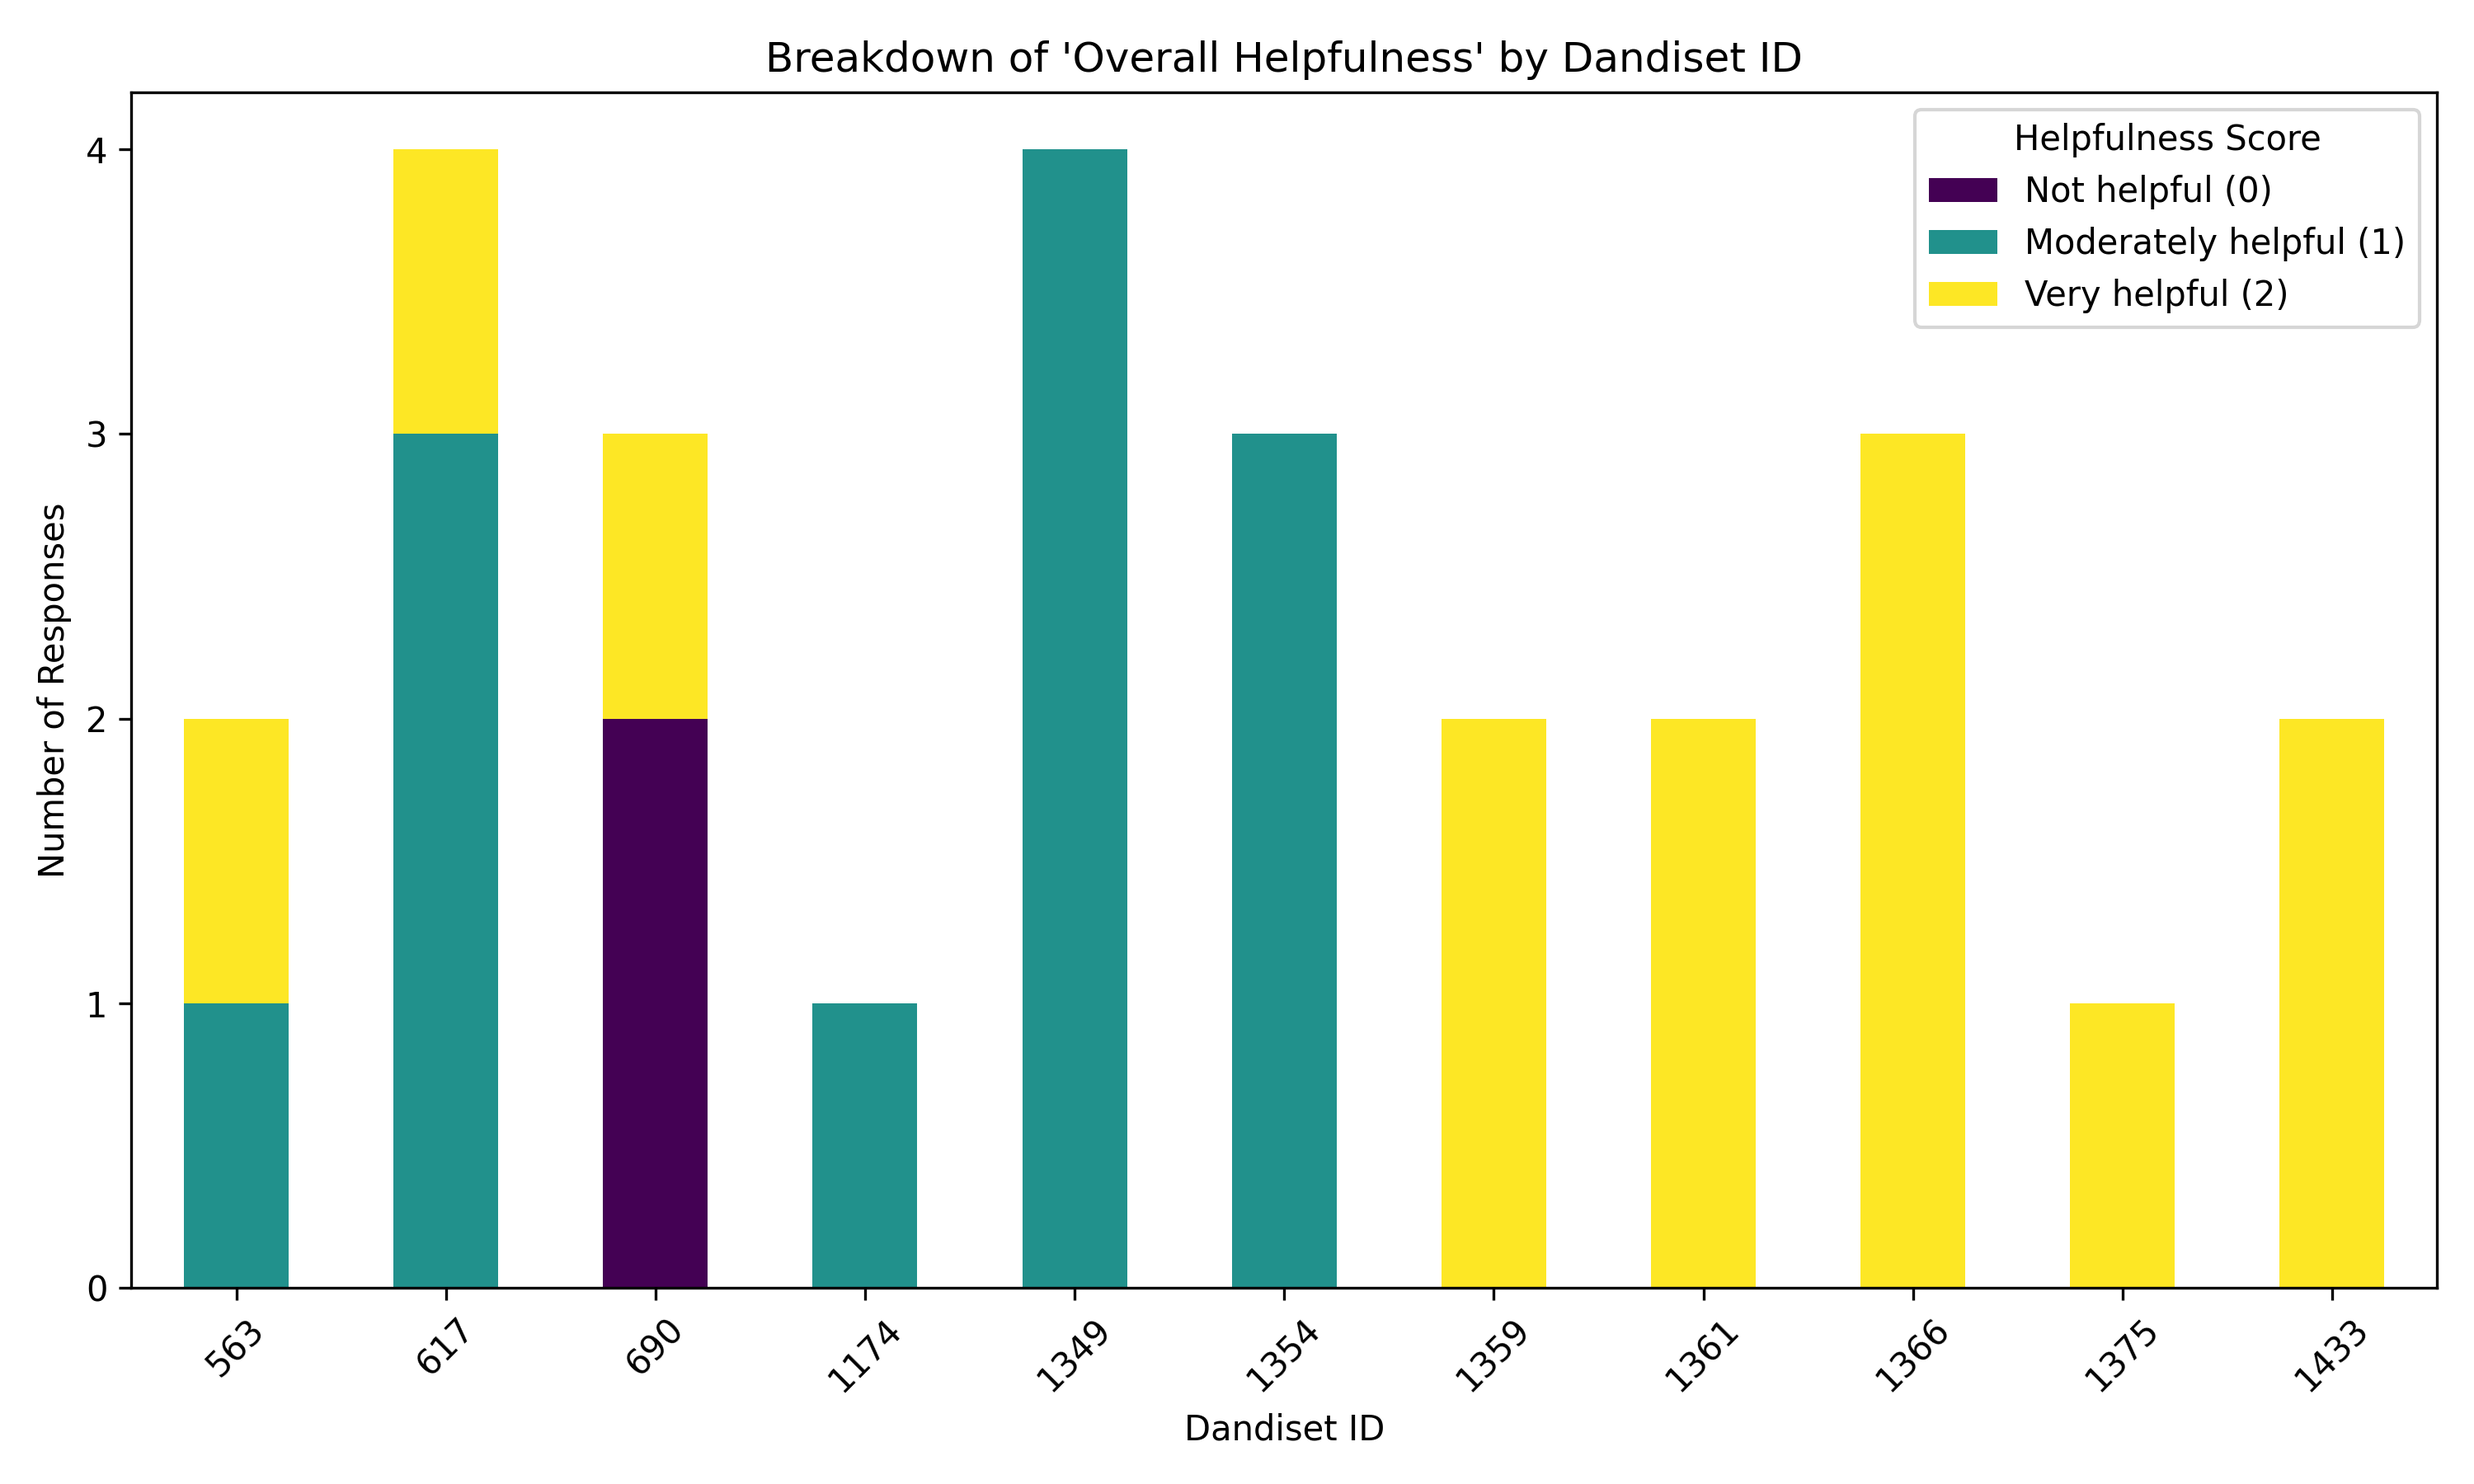
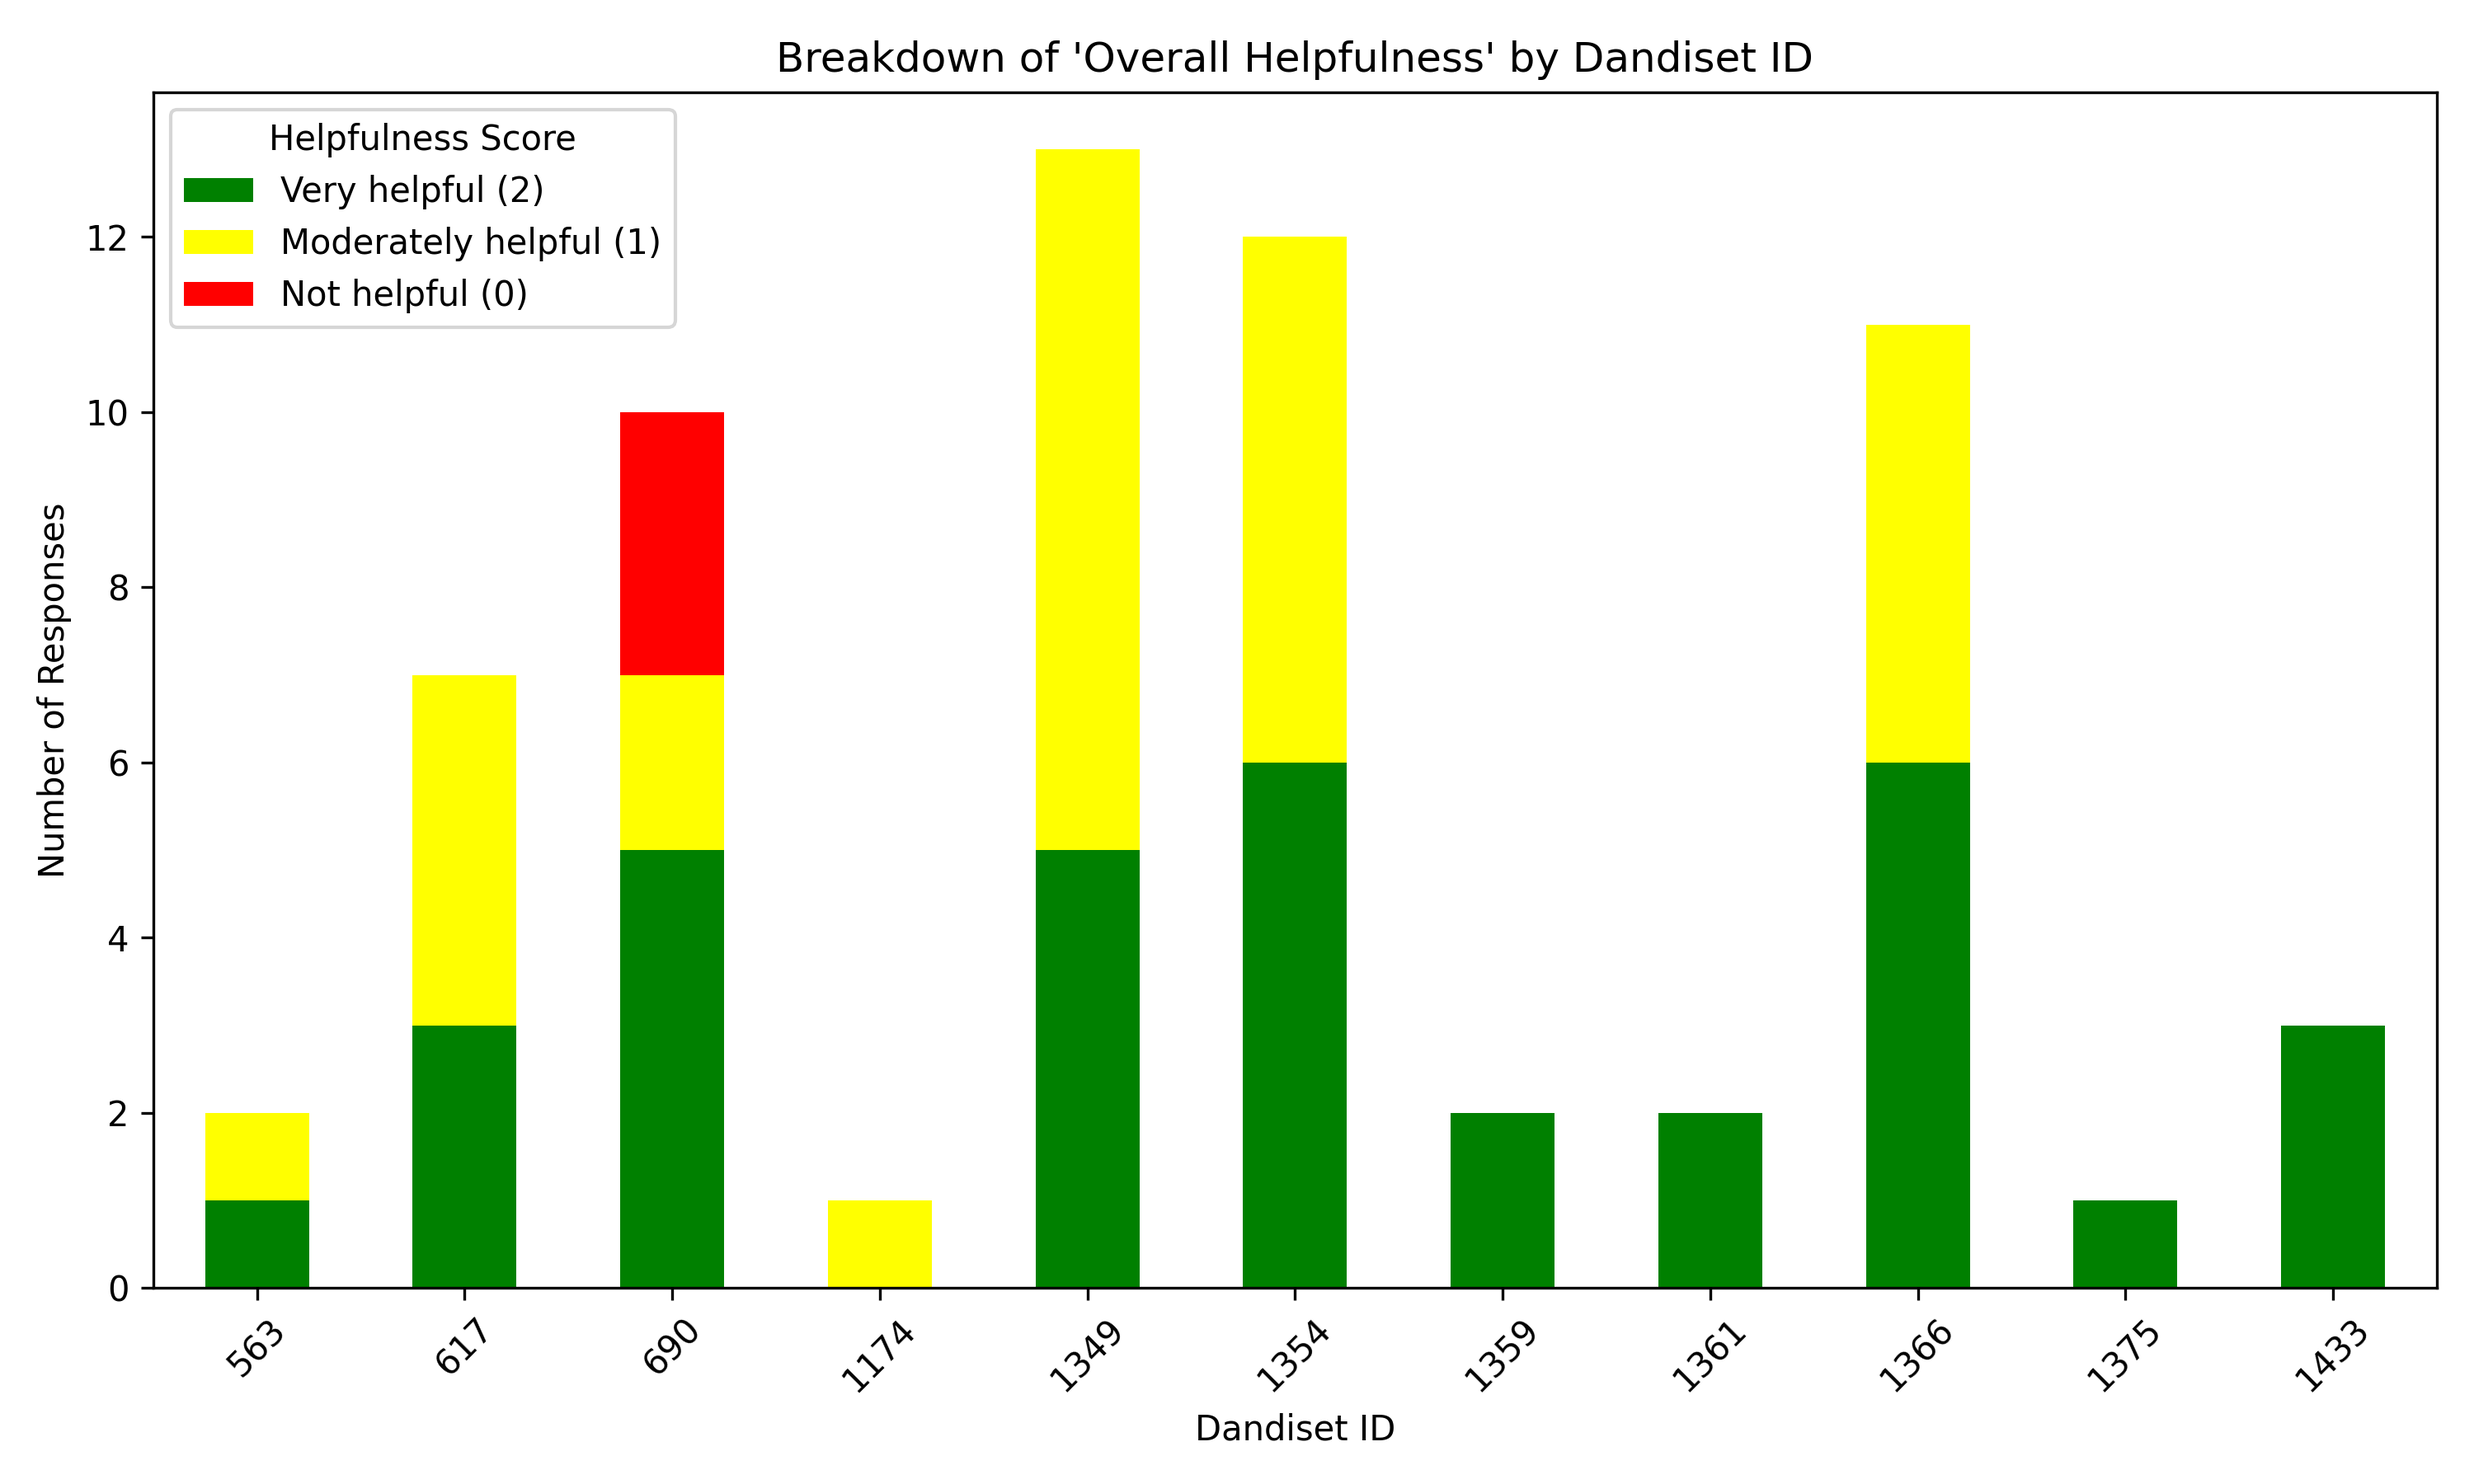
new reviews

diff --git a/scripts/plot_overall_helpfulness.py b/scripts/plot_overall_helpfulness.py
@@ -8,18 +8,18 @@ df = pd.read_csv("reviews_export.csv")
 
 # Compute breakdown
 breakdown = df.groupby("dandiset_id")["overall-helpfulness"].value_counts().unstack(fill_value=0)
-breakdown = breakdown[[0, 1, 2]] if set([0, 1, 2]).issubset(breakdown.columns) else breakdown
+breakdown = breakdown[[2, 1, 0]] if set([0, 1, 2]).issubset(breakdown.columns) else breakdown
 breakdown.reset_index(inplace=True)
 breakdown.set_index("dandiset_id", inplace=True)
 
 # Plot
 fig, ax = plt.subplots(figsize=(10, 6))
-breakdown.plot(kind="bar", stacked=True, colormap="viridis", ax=ax)
+breakdown.plot(kind="bar", stacked=True, color=['green', 'yellow', 'red'], ax=ax)
 ax.set_title("Breakdown of 'Overall Helpfulness' by Dandiset ID")
 ax.set_xlabel("Dandiset ID")
 ax.set_ylabel("Number of Responses")
 ax.set_xticklabels(breakdown.index, rotation=45)
-ax.legend(title="Helpfulness Score", labels=["Not helpful (0)", "Moderately helpful (1)", "Very helpful (2)"])
+ax.legend(title="Helpfulness Score", labels=["Very helpful (2)", "Moderately helpful (1)", "Not helpful (0)"])
 ax.yaxis.set_major_locator(ticker.MaxNLocator(integer=True))
 
 plt.tight_layout()

diff --git a/scripts/convert_reviews_to_csv.py b/scripts/convert_reviews_to_csv.py
@@ -11,7 +11,8 @@ def get_reviewer_id(email, email_to_id=None):
         email_to_id = {}
     if email not in email_to_id:
         reviewer_num = len(email_to_id) + 1
-        email_to_id[email] = f'R{reviewer_num}'
+        #  email_to_id[email] = f'R{reviewer_num}'
+        email_to_id[email] = email
     return email_to_id[email]
 
 def extract_dandiset_id(notebook_uri):
@@ -30,7 +31,7 @@ def _is_author_email(email):
 
 def main():
     # Read the JSON file
-    with open('reviews-export-2025-07-02.json', 'r') as f:
+    with open('reviews-export-2025-07-14.json', 'r') as f:
         reviews = json.load(f)
 
     # Track all unique question IDs to create CSV headers
